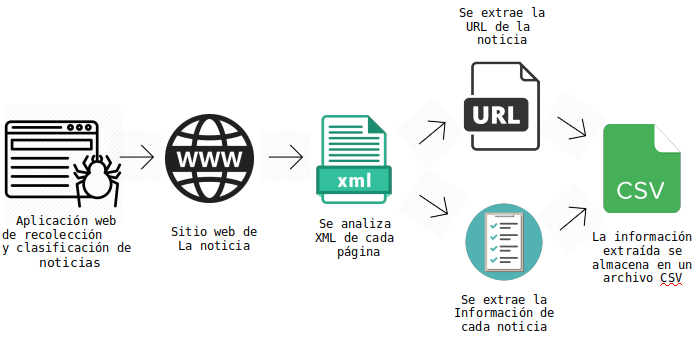
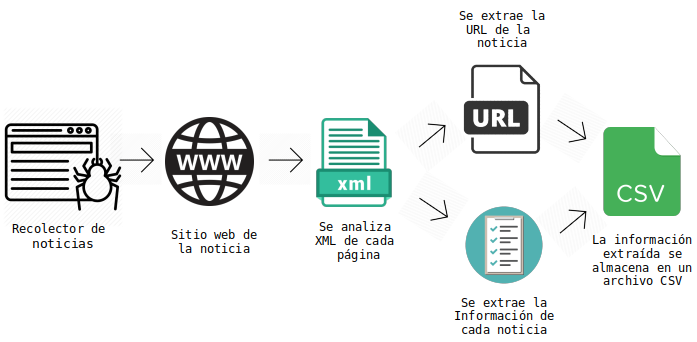
Capitulo 5 en espera de revisiones

diff --git a/DocumentoAnalisis/Capitulos/Capitulo5-Avances.tex b/DocumentoAnalisis/Capitulos/Capitulo5-Avances.tex
@@ -3,37 +3,37 @@
 En esta sección se mostrarán los avances que hasta el día de hoy se tienen.
 
 \section{Herramientas utilizadas}
-Para el desarrollo de los avances en el presente trabajo, se utilizó el lenguaje de programación Python\footnote{https://www.python.org/}, 
-que nos ofrece multiples librerías para el análisis de datos. Debido a que muchas librerias científicas requieren una versión específica 
-de Python se utilizó Anaconda\footnote{https://www.anaconda.com/distribution/} el cual proporciona una gran colección de bibliotecas de 
-ciencia de datos altamente optimizadas y de uso común. Mientras que para el web-crawling se utilizó Scrapy\footnote{https://scrapy.org/}, 
-el cual es un framework que permite la extracción de información de sitios web.
+Para el desarrollo de los avances en el presente trabajo, se utilizó el lenguaje de programación Python\footnote{https://www.python.org/} 
+en la distribución Anaconda\footnote{https://www.anaconda.com/distribution/}, ya que gestiona las 
+versiones de las librerías utilizadas para el análisis de datos, y para el recolector web (Crawler) se utilizó Scrapy\footnote{https://scrapy.org/}, 
+un framework que permite la extracción de información de sitios web.
 
 \section{Estudio previo}
-Una vez que se eligieron las herramientas que permiten la extracción de la información, se procedió con la selección de los 
-sitios web de los cuales se extraerían noticias, que posteriormente serán de ayuda para el entrenamiento del clasificador.
+Una vez elegidas las herramientas que permiten la extracción de la información, se procedió con la selección de los 
+sitios web para extraer noticias.
 \\
-El sitio web El Economista\footnote{https://www.eleconomista.com.mx/} contiene una sección llamada \textbf{Ranking de Medios Nativos Digitales}, 
-la cual permite mostar estadísticas que realiza mes con mes acerca de los sitios web más consultados desde diferentes dispositivos electrónicos 
-(Móviles, tabletas y escritorio).
-El análisis se realizó sobre los dispositivos de escritorio, ya que el sistema propuesto será una aplicación web; como se observa en la Figura
- \textbf{\ref{fig:rank}} se podrán observar los sitios web más consultados.
+El sitio web El Economista\footnote{https://www.eleconomista.com.mx/} contiene una sección llamada 
+\textbf{Ranking de Medios Nativos Digitales}\footnote{https://www.eleconomista.com.mx/Ranking-de-Medios-Nativos-Digitales}, 
+el cual muestra las estadísticas que realiza mes con mes acerca de los sitios de noticias web más consultados como se muestra 
+en la Figura \textbf{\ref{fig:rank}}
 \begin{figure}[H]
   \centering
   \includegraphics[scale=.28]{imagenes/Capitulo5/ranking}
-  \caption{Ranking de sitios web del periodo de enero del 2018 a enero del 2019.}
+  \caption{Ranking de sitios de noticias del periódo de enero del 2018 a enero del 2019.}
   \label{fig:rank}
 \end{figure}
 
-Para el proceso de selección de los sitios web, se tomo en cuenta la publicación realizada, se eligieron 9 sitios web para su análisis:
+Con base en las estadísticas 9 sitios se han seleccionado:
+%Para el proceso de selección de los sitios web, se tomo en cuenta la publicación realizada, se eligieron 9 sitios web para su análisis:
 
 \begin{itemize}
     \item 3 Sitios de foros de noticias: Aristegui Noticias, SDP Noticias y Sopitas.
     \item 3 Sitios de diarios: El Universal, La Jornada y Excelsior.
     \item 3 Sitios televisivos: TV Azteca, Televisa y Once Noticias.
 \end{itemize}
-
-Una vez seleccionados los sitios, se procedió con el análisis de las secciones que contiene cada sitio, como lo muestra el Cuadro \textbf{\ref{tabla:sitios}}.
+Los sitios se encuentrán definidos en secciones, cada una muestra noticias de un mismo ámbito. 
+Una vez seleccionados los sitios, se procedió con el análisis de las secciones que contienen los portales, como 
+lo muestra el Cuadro \textbf{\ref{tabla:sitios}}.
 \begin{table}[htbp]
     \centering
     \resizebox{\columnwidth}{!}{%
@@ -63,7 +63,8 @@ Una vez seleccionados los sitios, se procedió con el análisis de las secciones
 \caption[Tabla]{Secciones existentes en los sitios web}
 \label{tabla:sitios}
 \end{table}
-Una vez que se obtuvieron los resultados de las secciones, se definieron 5 secciones las cuales se consideran las más comunes dentro de los sitios web,
+
+Con base en el análisis de las secciones, se discriminaron las más relevantes quedando así 5 categorías: 
 
 \begin{itemize}
     \item Política
@@ -73,24 +74,22 @@ Una vez que se obtuvieron los resultados de las secciones, se definieron 5 secci
     \item Cultura
 \end{itemize}
 
+Para llevar a cabo el proceso de extracción de las noticias, se realizó el estudio 
+de la estructura XML (\textit{Extensible Markup Language}, por sus siglas en inglés de cada sitio web seleccionado, con 
+el objetivo de definir las etiquetas que poseen la información de las noticias, las cuales son:
 
-Para llevar a cabo el proceso de desarrollo del código que permite la extracción de la información, se realizó el estudio de la estructura XML
-(Extensible Markup Language) de los sitios web seleccionados, con el fin de definir las etiquetas que contienen la información requerida.
-Scrapy es una herramienta que permite la extracción de información de distintos sitios web, basado en las etiquetas de lo.
-\\
-De cada sitio web se analizó la estructura de la siguiente información contenida en cada noticia.\\
 \begin{itemize}
-  \item URL.
-  \item Sección.
-  \item Título.
-  \item Autor.
-  \item Fecha.
-  \item Descripción.
-  \item Noticia.
+  \item URL
+  \item Sección
+  \item Título
+  \item Autor
+  \item Fecha
+  \item Descripción
+  \item Noticia
 \end{itemize} 
 
 \section{Recolección de noticias}
-Para describir como se lleva a cabo la recolección de noticias se muestra en la siguiente Figura \textbf{\ref{fig:diagrama}}.
+En la siguiente Figura \textbf{\ref{fig:diagrama}}. se describe el proceso de recolección:
 
 \begin{figure}[H]
   \centering
@@ -99,148 +98,22 @@ Para describir como se lleva a cabo la recolección de noticias se muestra en la
   \label{fig:diagrama}
 \end{figure}
 
-\subsection{Prerrequisitos}
+\subsection{Desarrollo}
+Con base en la información obtenida de los sitios web, se diseño un recolector de noticias para cada sitio, procede con 
+los siguientes pasos para realizar la extracción de noticias.
 \begin{itemize}
-    \item Tener instalado en nuestro computador alguna distribución de Linux.
-    \item Tener instalado python en a partir de su versión 2.7
-    \item Tener conocimientos de la creación de entornos de desarrollo.
+  \item Se ingresa a la URL definida como inicio y se analiza la etiqueta definida que redirecciona a cada noticia del sitio web
+  \item Una vez que se ha ingresado a la noticia se procede con el análisis de las etiquetas definidas
+  \item Se extrae la información de cada noticia, así como su URL
+  \item Posteriormente la información recolectada se guarda en un archivo csv
 \end{itemize}
+La siguiente figura muestra el comando que realiza el proceso de recolección de las noticias.
 
-Para este proceso se abre una terminal nueva con la ruta donde se desee guardar el proyecto, Figura \textbf{\ref{fig:uno}} 
-
-\begin{figure}[H]
-  \centering
-  \includegraphics[scale=.35]{imagenes/Capitulo5/1}
-  \caption{Carpeta donde se creará el proyecto.}
-  \label{fig:uno}
-\end{figure}
-
-Una vez ubicados en la carpeta donde se creará el proyecto se procede con la creación de un entorno virtual y ahí se activará el entorno virtual 
-creado Figura \textbf{\ref{fig:dos}}.
-
-\begin{figure}[H]
-    \centering
-    \includegraphics[scale=.35]{imagenes/Capitulo5/2}
-    \caption{Creación del entorno virtual.}
-    \label{fig:dos}
-  \end{figure}
-
-Una vez activado el entorno virtual, se procederá con la instalación de Scrapy y la creación del proyecto con la siguiente línea
-\textbf{\textit{scrapy startproject tutorial}} Figura \textbf{\ref{fig:tres}} .
-
-\begin{figure}[H]
-    \centering
-    \includegraphics[scale=.35]{imagenes/Capitulo5/3}
-    \caption{Creación del proyecto Scrapy.}
-    \label{fig:tres}
-  \end{figure}
-
-Veremos que se ha creado una carpeta con el nombre del proyecto \textbf{"tutorial"}, la cual contiene los siguientes archivos Figura \textbf{\ref{fig:cuatro}} .
-
-\begin{figure}[H]
-    \centering
-    \includegraphics[scale=.35]{imagenes/Capitulo5/4}
-    \caption{Carpetas y archivos creados.}
-    \label{fig:cuatro}
-  \end{figure}
- 
-Se definieron en el archivo \textbf{items.py} las etiquetas de la página que se necesita recolectar de cada noticia Figura \textbf{\ref{fig:cinco}}. 
-\\
-\begin{itemize}
-  \item URL: Se necesita la URL para redireccionar al usuario a la página origen de la noticia seleccionada.
-  \item Sección: Se necesita saber la sección para que sea de apoyo para el clasificador.
-  \item Título: El título de la noticia permite al usuario saber sobre la noticia.
-  \item Autor: Permite mostrar al usuario el autor de la noticia.
-  \item Fecha: Se necesita la fecha para su clasificación por la fecha de publicación de la noticia.
-  \item Descripción: Se mostrara al usuario una pequeña descripción de la noticia si es que la tiene.
-  \item Noticia: El contenido de la noticia permite determinar la clasificación de la misma.
-\end{itemize}
-Es fundamental obtener toda la información de las etiquetas definidas la cual permitirá al clasificador obtener mejores resultados.
-\\
-Se procede con la creación un archivo dentro de la carpeta Spiders llamado \textbf{\textit{spiders.py}}, dentro de este archivo se encuentra el código 
-de nuestras reglas XML para la extracción de la información.
-
-\begin{figure}[H]
-  \centering
-  \includegraphics[scale=.45]{imagenes/Capitulo5/5}
-  \caption{Información necesaria de extraer de cada noticia.}
-  \label{fig:cinco}
-\end{figure}
-
-Se debe tener cuidado en la definición de las etiquetas XML, ya que de no ser bien definidas no se podrá extraer la información necesaria 
-para el clasificador.
-\\
-
-\begin{figure}[H]
-  \centering
-  \includegraphics[scale=.45]{imagenes/Capitulo5/6}
-  \caption{En la primera se muestran las librerias, posteriormente se definen las reglas las cuales son diferentes para cada sitio web.}
-  \label{fig:seis}
-\end{figure}
-
-Una vez definidas las reglas que permiten la extracción, se procede a modificar el archivo \textbf{pipelines.py} el cual permite realizar 
-la importación de la información obtenida a un archivo con formato CSV Figura \textbf{\ref{fig:siete}}
-\\
-\begin{figure}[H]
-  \centering
-  \includegraphics[scale=.45]{imagenes/Capitulo5/7}
-  \caption{Código necesario para la exportación de la información extraída.}
-  \label{fig:siete}
-\end{figure}
-
-Por último se procede con la ejecución del siguiente comando para extraer la información \textbf{scrapy crawl tutorial -t csv} Figura \textbf{\ref{fig:ocho}}
-
-\begin{figure}[H]
-  \centering
-  \includegraphics[scale=.35]{imagenes/Capitulo5/8}
-  \caption{Muestra de la recolección realizada por el crawler.}
-  \label{fig:ocho}
-\end{figure}
+%Para el proceso de extracción se abre una terminal con la ruta donde se guardará la información recolectada Figura \textbf{\ref{fig:uno}} 
+%Se va a redactar los pasos del proceso de recolección
 
 \subsection{Resultados}
-Una vez que termina de ejecutarse el crawler se genera un archivo CSV, ahí se almacena la información recolectada, posteriormente toda la información 
-que se recolecto será utilizada para el algoritmo de entrenamiento Figura \textbf{\ref{fig:nueve}}.
 
-\begin{figure}[H]
-  \centering
-  \includegraphics[scale=.30]{imagenes/Capitulo5/9}
-  \caption{Resultados obtenidos de la extracción del sitio web almacenado en un archivo CSV.}
-  \label{fig:nueve}
-\end{figure}
-
-\subsubsection{Resultados de las etiquetas}
-De los nueve sitios elegidos para la recolección de noticias, se logró recolectar información de las etiquetas de cada sitio Tabla \textbf{\ref{tabla:etiquetas}}:
-\\
-\begin{table}[htbp]
-  \centering
-  \resizebox{\columnwidth}{!}{%
-  \begin{tabular}{|l|l|l|l|l|l|l|l|l|l|}
-  \multicolumn{1}{l}{Etiqueta}
-  & \multicolumn{1}{l}{El Universal}
-  & \multicolumn{1}{l}{La Jornada}
-  & \multicolumn{1}{l}{Milenio} 
-  & \multicolumn{1}{l}{Aristegui Noticias} 
-  & \multicolumn{1}{l}{SDP Noticias} 
-  & \multicolumn{1}{l}{Sopitas} 
-  & \multicolumn{1}{l}{Azteca Noticias} 
-  & \multicolumn{1}{l}{Televisa} 
-  & \multicolumn{1}{l}{Once Noticias} \\ \cline{1-10}
-      URL         & Sí & Sí & Sí & Sí & Sí & Sí & Sí & Sí & Sí \\ \hline
-      Sección     & Sí & Sí & Sí & Sí & Sí & Sí & Sí & Sí & Sí \\ \hline
-      Título      & Sí & Sí & Sí & Sí & Sí & Sí & Sí & Sí & Sí \\ \hline
-      Autor       & Sí & Sí & Sí & Sí & Sí & Sí & Sí & Sí & Sí \\ \hline
-      Fecha       & Sí & Sí & Sí & Sí & Sí & Sí & Sí & Sí & Sí \\ \hline
-      Descripción & Sí & No & Sí & No & No & Sí & Sí & Sí & Sí \\ \hline
-      Noticia     & Sí & Sí & Sí & Sí & Sí & Sí & Sí & Sí & Sí \\ \hline
-    \end{tabular}%
-\label{tabla:etiquetas}
-}
-\end{table}
-
-A pesar de extraer la mayoría de etiquetas requeridas, existen algunos datos que se encuentran en una sola etiqueta.
-\\
-La mayor parte de los sitios permiten la extracción de noticias, sin embargo se debe tener cuidado que las etiquetas se 
-encuentren bien descritas, de lo contrario no extrae información.
 \subsubsection{Secciones recolectadas}
 
 De los nueve sitios web definidos se obtuvieros las siguientes secciones Tabla \textbf{\ref{tabla:secciones}}:
@@ -266,27 +139,76 @@ De los nueve sitios web definidos se obtuvieros las siguientes secciones Tabla \
       Política              & Sí & Sí & Sí & Sí & No & No & Sí & Sí & No \\ \hline
       Ciencia y tecnología  & Sí & Sí & Sí & No & Sí & Sí & No & Sí & Sí \\ \hline
     \end{tabular}%
-\label{tabla:secciones}
 }
+\caption{Secciones contenidas en los sitios web definidos}
+\label{tabla:secciones}
 \end{table}
-\\
-Cerca del 75\% de los sitios web seleccionados contienen las secciones que fueron definidas, 
-debido a que los sitios web de foros de noticias (Aristegui Noticias, SDP Noticias y Sopitas) 
-tienen muy pocas seccioned definidas dentro de su sitio web.
+
+\subsubsection{Resultados de las etiquetas}
+En el Cuadro \textbf{\ref{tabla:etiquetas}}, muestrá los campos que pueden ser extraídos por cada sitio.
+%Expresar la idea de que se intento recolectar toda la información sin embargo no se pueo 
+\begin{table}[htbp]
+  \centering
+  \resizebox{\columnwidth}{!}{%
+  \begin{tabular}{|l|l|l|l|l|l|l|l|l|l|}
+  \multicolumn{1}{l}{Etiqueta}
+  & \multicolumn{1}{l}{El Universal}
+  & \multicolumn{1}{l}{La Jornada}
+  & \multicolumn{1}{l}{Milenio} 
+  & \multicolumn{1}{l}{Aristegui Noticias} 
+  & \multicolumn{1}{l}{SDP Noticias} 
+  & \multicolumn{1}{l}{Sopitas} 
+  & \multicolumn{1}{l}{Azteca Noticias} 
+  & \multicolumn{1}{l}{Televisa} 
+  & \multicolumn{1}{l}{Once Noticias} \\ \cline{1-10}
+      URL         & Sí & Sí & Sí & Sí & Sí & Sí & Sí & Sí & Sí \\ \hline
+      Sección     & Sí & Sí & Sí & Sí & Sí & Sí & Sí & Sí & Sí \\ \hline
+      Título      & Sí & Sí & Sí & Sí & Sí & Sí & Sí & Sí & Sí \\ \hline
+      Autor       & Sí & Sí & Sí & Sí & Sí & Sí & Sí & Sí & Sí \\ \hline
+      Fecha       & Sí & Sí & Sí & Sí & Sí & Sí & Sí & Sí & Sí \\ \hline
+      Descripción & Sí & No & Sí & No & No & Sí & Sí & Sí & Sí \\ \hline
+      Noticia     & Sí & Sí & Sí & Sí & Sí & Sí & Sí & Sí & Sí \\ \hline
+    \end{tabular}%
+}
+\caption{Etiquetas extraídos de cada sitio web}
+\label{tabla:etiquetas}
+\end{table}
+
+\subsubsection{Archivo obtenido}
+De cada sitio web se extrajeron los artículos y urls (noticias asociadas) contenidos en la página principal, 
+almacenados en un archivo CSV\footnote{Un documento CSV es una hoja de calculo de distribución libre} como se muestra 
+en la Figura \textbf{\ref{fig:nueve}}. Cabe destacar que posteriormente la información recolectada será utilizada 
+como parte del corpus de entrenamiento del clasificador.
+
+\begin{figure}[H]
+  \centering
+  \includegraphics[scale=.27]{imagenes/Capitulo5/9}
+  \caption{Resultados obtenidos de la extracción del sitio web almacenado en un archivo CSV.}
+  \label{fig:nueve}
+\end{figure}
+
 \subsection{Consideraciones}
 \begin{itemize}
-  \item Se debe tener conocimiento de XML para poder realizar las reglas que permitirán extraer información de la página web que se solicite extraer 
-  información
-  \item Cuando la noticia consta de un video, no se obtiene ninguna información adicional de la noticia.
+  \item Se debe tener conocimiento de XML para poder realizar las etiquetas que extraen información de la cada sitio web
+  \item Cuando la noticia consta de un video, no se obtiene ninguna información adicional de la noticia
   \item Se debe tomar en cuenta que las secciones no están homogeneizadas, es decir a pesar de que de la misma página existan varias secciones 
-  \item La distribución de la información varia dependiendo a la sección y sitio web.
+en la cual una noticia puede ser clasificada.
+  \item La distribución de la información de una noticia varia dependiendo a la sección y sitio web.
   \item Se acoto el periodo de busqueda de noticias ya que algunos sitios web muestran las noticias más recientes.
 \end{itemize}
 
+\subsection{Conclusiones}
+%Conclusiones
+%A pesar de extraer la mayoría de etiquetas requeridas, existen algunos datos que se encuentran en una sola etiqueta.
+El 75\% de los sitios web seleccionados contienen las secciones definidas.
+Los sitios web de foros de noticias (Aristegui Noticias, SDP Noticias y Sopitas) tienen muy pocas secciones definidas.
+
+%Escribirlo de manera más precisa
+
 \section{Trabajo a futuro}
 \begin{itemize}
-  \item Una vez que se obtuvo la extracción de las noticias, se pretende que las noticias formaran parte del corpus.
-  \item Corregir las reglas para la extracción de la información de los sitios web, y así evitar extraer información con código HTML.
-  \item Agregar reglas para cada etiqueta, de manera tal manera que se obtenga la información necesaria.
-  \item Realizar el clasificador de noticias aplicando las técnicas de clasificación previamente definidas.
+  \item Una vez que se obtuvo la extracción de las noticias, se pretende que las noticias formaran parte del corpus
+  \item Corregir las reglas para la extracción de la información de los sitios web, y así evitar extraer información con código HTML
+  \item Agregar reglas para cada etiqueta, de manera tal manera que se obtenga la información necesaria
+  \item Realizar el clasificador de noticias aplicando las técnicas de clasificación previamente definidas
 \end{itemize}

diff --git a/DocumentoAnalisis/Capitulos/Capitulo2-EstadoDelArte.tex b/DocumentoAnalisis/Capitulos/Capitulo2-EstadoDelArte.tex
@@ -169,16 +169,16 @@ Para el proceso de aprendizaje se ocuparon 50 noticias por tópico, las cuales f
 	 \\
 \end{large}
 
-Este documento busca el mejor algoritmo de clasificación en lenguaje Indu, comparando la eficiencia de algoritmos de selección de características (Palabras clave) y de clasificación de noticias \citep{CD8}. Las secciones definidas por el artículo son las siguientes, \textit{Economy}, \textit{Health}, \textit{Sports}, \textit{Politic} y \textit{Tecnology}; El trabajo realiza pre-procesamiento de datos con  los métodos \textit{lemmatization} y \textit{Stopwords} para reducir el ruido en la información. Para la obtención de noticias se hace uzo de la técnica \textit{crawling}(ver ver \Tref{CP1}{Capítulo 3}) en el sito \textit{ccnnindonesia}\footnote{Sitio web de noticias: wwww.ccnnindonesia.com}. Se obtuvieron 1,000 artículos para cada sección. 800 se usaron para la etapa de entrenamiento y 200 para realizar pruebas. Se muestra la lista de los algoritmos implementados:
+Este documento busca el mejor algoritmo de clasificación en lenguaje Indu, comparando la eficiencia de algoritmos de selección de características (Palabras clave) y de clasificación de noticias \citep{CD8}. Las secciones definidas por el artículo son las siguientes, \textit{Economy}, \textit{Health}, \textit{Sports}, \textit{Politic} y \textit{Tecnology}; El trabajo realiza pre-procesamiento de datos con  los métodos \textit{lemmatization} y \textit{Stopwords} para reducir el ruido en la información. Para la obtención de noticias se hace uso de la técnica \textit{crawling}(ver \Tref{CP1}{Capítulo 3}) en el sito \textit{ccnnindonesia}\footnote{Sitio web de noticias: wwww.ccnnindonesia.com}. Se obtuvieron 1,000 artículos para cada sección. 800 se usaron para la etapa de entrenamiento y 200 para realizar pruebas. Se muestra la lista de los algoritmos implementados:
 
 \begin{itemize}
-	\item Selección de características
+	\item Selección de características:
 	\begin{itemize}
 		\item \textit{Singular Value Decomposition}
 		\item \textit{Term frequency-inverse document frequency}
 	\end{itemize}
 
-	\item Clasificación
+	\item Clasificación:
 	\begin{itemize}
 		\item \textit{Support vector machine}
 		\item \textit{Naive bayes classifier}
